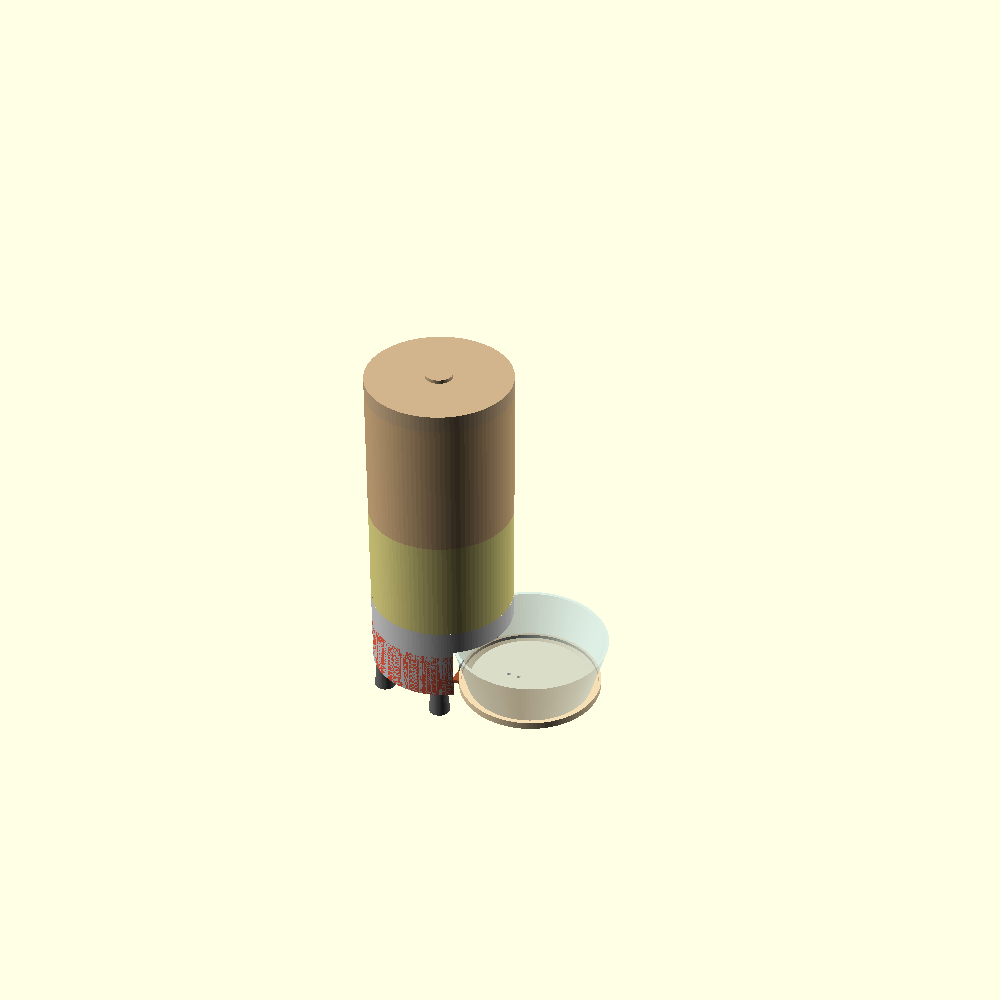
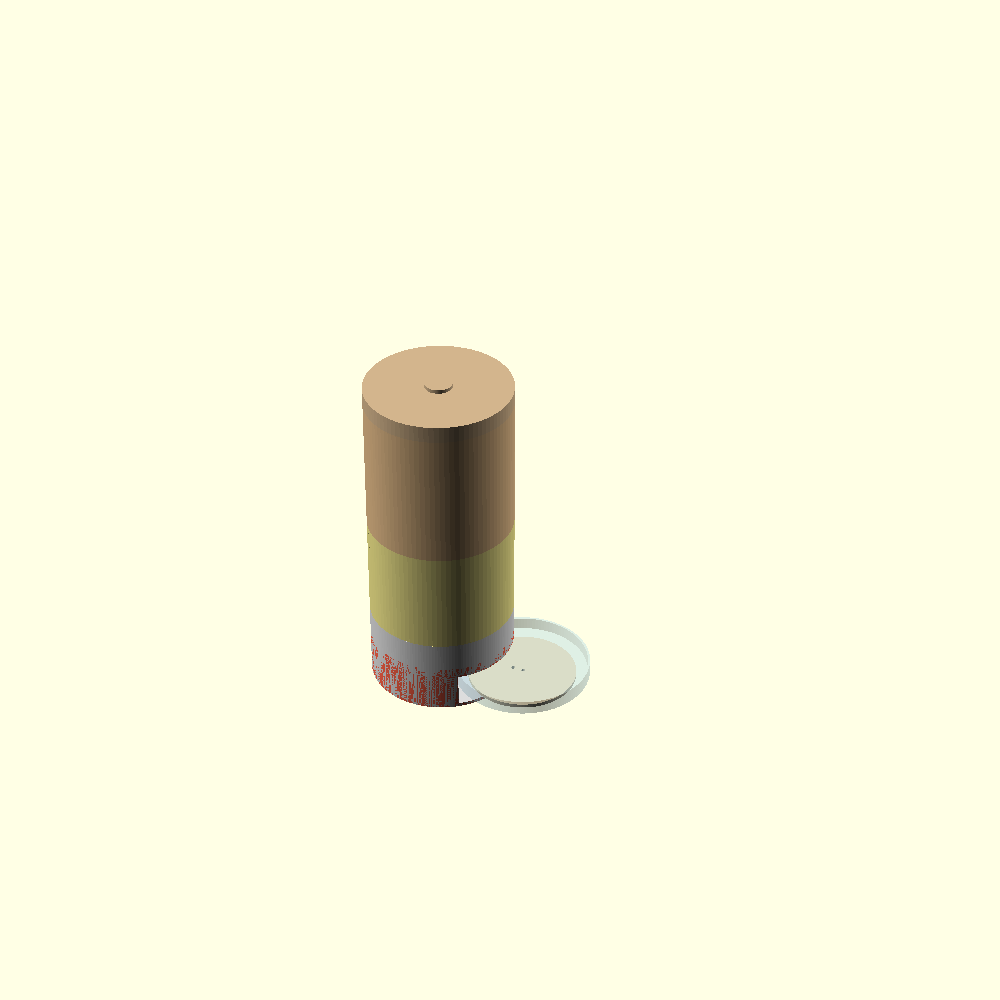
form 1a: tower stands flat, food lands in a pull-out tray on the cell
SCOPE RESET. Mechanism (wheel/housing/axle), outlet cone (funnel/cap) and the
anti-jam spider are untouched. Everything else collapses to the monolithic 1a
body: one Ø160 cylinder sitting FLAT on the ground, with a shallow removable
feed tray in the front scallop, on the load cell.

REMOVED: leg(), legs_mounted(), parts "leg"/"legs4", printable_thread(),
thread_hole(), every leg_* / leg_sock_ang / socket_thread param, the leg sockets
and bosses in base_motor; the whole external weighing station (wp_foot, wp_tray,
"station", "station_cut", wp_cell_z/wp_tray_z, bowl_platform) and the deep Ø175
bowl_mock. grep for leg/thread/wp_ is clean (spider_leg* is the anti-jam spider).
KEPT, against the brief: the 6 relief slots. They are the SNAP SPIGOT's flex cut
(base_motor <-> base_hopper), not a leg-thread feature.

FIXED — a real bug the reset exposed. base_niche() was ALSO applied to base_hopper
with niche_h = 58, and the disc lives at z43..48: the scallop was cutting straight
THROUGH the disc. It had deleted the food outlet and the anti-rotation key collar,
and left the housing's front half sitting on nothing. Verified by sectioning: the
disc was solid only out to x~19. The niche now stops at z40, under the disc, and is
no longer applied to base_hopper — outlet and collar are back (section confirms the
bore void 24.5..34.5 with real 1.3 mm collar walls either side).

ADDED: base_sole() — an annular floor (z0..3, bore r32) so the tower has a real
[…]

diff --git a/hardware/bom.md b/hardware/bom.md
@@ -41,7 +41,7 @@ else matters until this works.
 | 8b | **Bulk hopper — funnel** | 3D printed, parametric — `bulk_hopper_module.scad part="funnel"`. Ø160 round top × **115 mm** tall, narrows to **rect bottom matching the cap inlet hole (33×34 rounded)**. Cone is **more open (~36° from vertical)** with a **straight Ø160 cylinder above** — bigger throat + wider approach to reduce arching. Primary active anti-bridge is now the **wheel's stirrer cone** (5a); a **vibromotor** is still planned but its mount is TBD (removed for now, re-added with the real motor). **No spider, no spout walls** (collar-mount). **Print right-side up — rect plug on the bed, lip up.** | 1 | 🧪 to validate |
 | 8c | **Bulk hopper — storage ring** | 3D printed, parametric — `bulk_hopper_module.scad part="ring"`. Ø160 × **150** mm (printed part is 160 mm with its stacking lip — 170 would have been 180 mm = the whole bed, no brim margin). Print **1** for ~1.5 kg total capacity (funnel 0.9 L + ring 2.79 L = 3.69 L × 0.4 g/mL), **2** for ~2.6 kg. Modular — print one extra ring to recover the old volume. Stackable slip-fit lip. | 1+ | 🧪 to validate |
 | 8d | **Bulk hopper — lid** | 3D printed, parametric — `bulk_hopper_module.scad part="lid"`. Wraps the topmost ring lip; finger pad on top. | 1 | 🧪 to validate |
-| 9a | **Lower body chassis** | ~~`chassis_module.scad`~~ **DEPRECATED / archived** (`archive/chassis_module.scad`). The body is now the Ø160 cylinder tower: `bulk_hopper_module.scad` `base_motor` + `base_hopper` (2 snap-locked parts) on 4 screw-in legs. Electronics live in the base annulus: `el_tray` (vertical, on rails) + `el_panel` (service window, DC jack + USB). | — | ✅ superseded |
+| 9a | **Lower body chassis** | ~~`chassis_module.scad`~~ **DEPRECATED / archived** (`archive/chassis_module.scad`). The body is now the Ø160 cylinder tower: `bulk_hopper_module.scad` `base_motor` + `base_hopper` (2 snap-locked parts) standing FLAT on its own sole (form 1a — the screw-in legs and the external weighing station were removed 2026-07-13). Electronics live in the base annulus: `el_tray` (vertical, on rails) + `el_panel` (service window, DC jack + USB). Feeding: a shallow pull-out `tray` (Ø150 × 16, ~280 ml) rides `cell_platform` on the load cell, in the front scallop. | — | ✅ superseded |
 | 9 | Dry cat food | The actual food the cat eats. Kibble size/shape changes everything — test with the real thing. | — | ✅ decided |
 | 10 | Misc | M3 screws/heat-set inserts for motor mount, jumper wires, breadboard. | — | ✅ decided |
 
